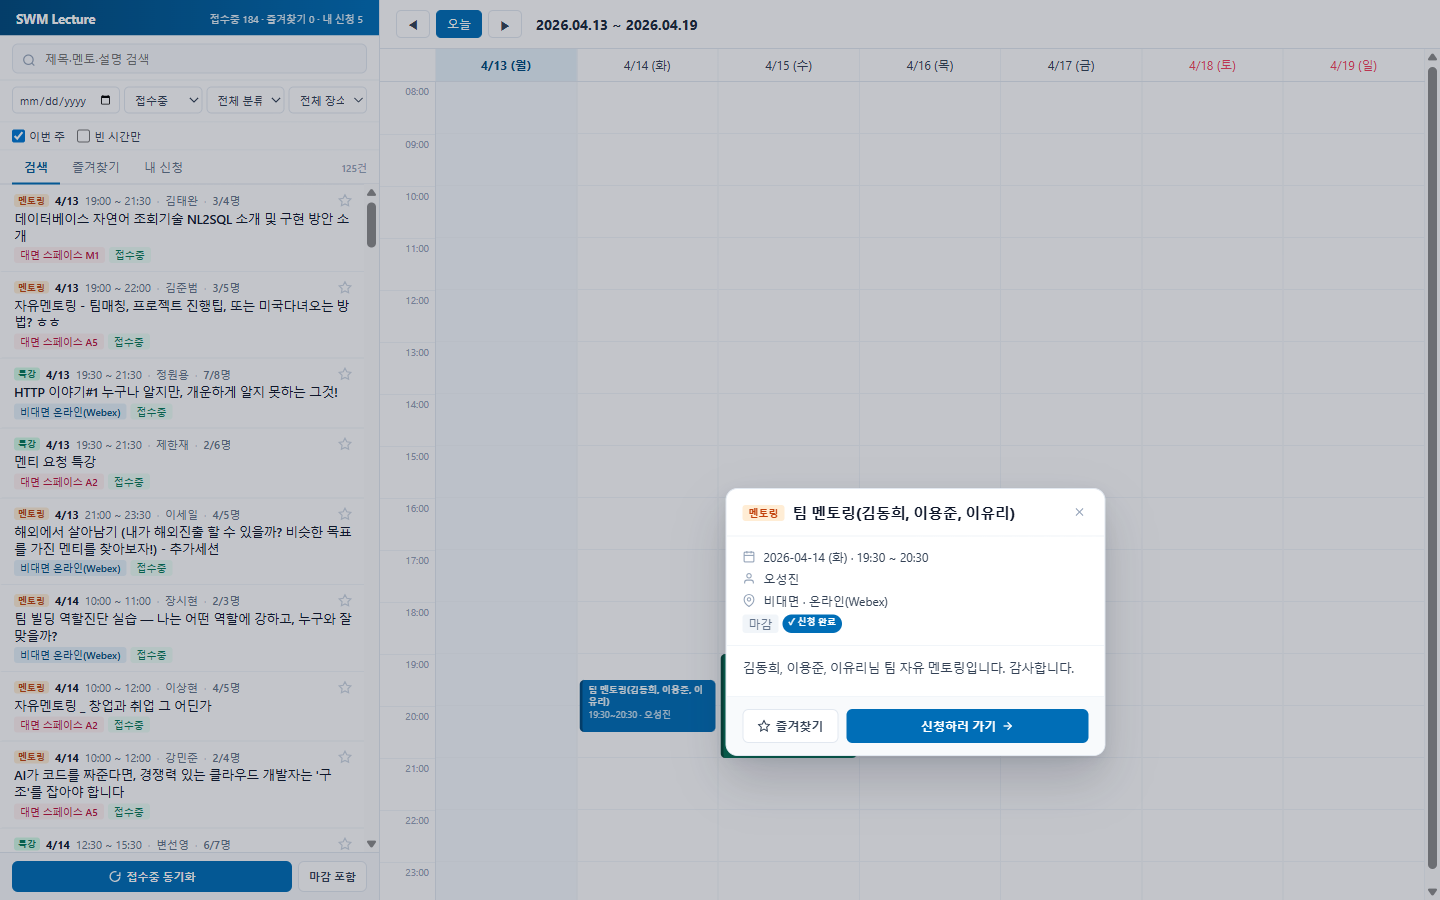
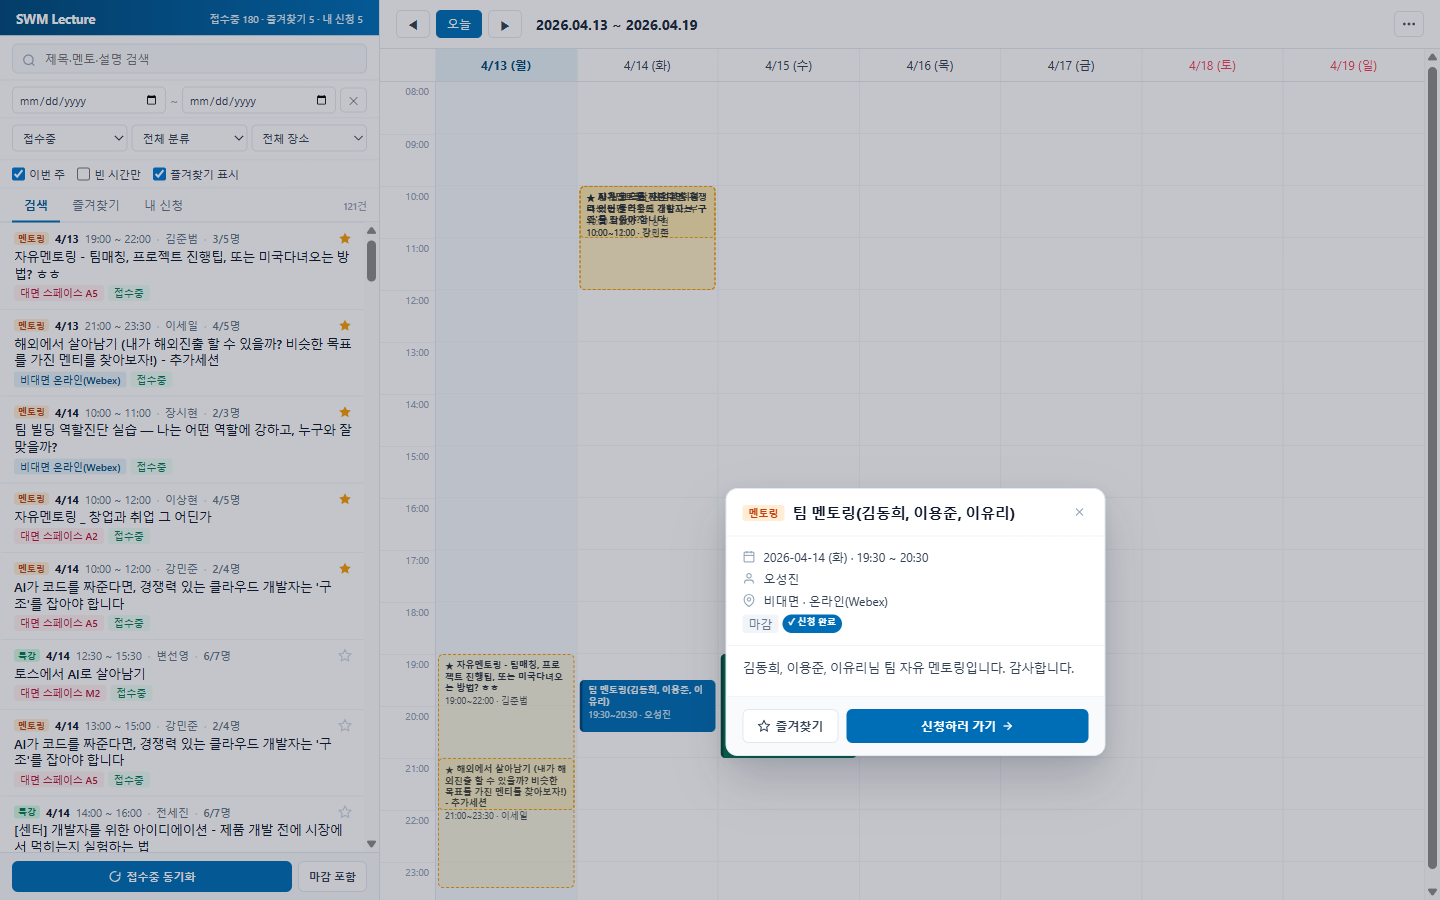
즐겨찾기 헤더 토글 + 상세검색 모드 + 10분 snap + 완전 포함 매칭
UI 재배치:
- 즐겨찾기 표시 체크박스 → 메인 헤더 우측 토글 스위치 (slider 스타일).
  기본 ON, ⋯ 메뉴 옆에 위치
- "상세검색 (시간대 선택)" 버튼을 사이드바 tt-toggles 행에 추가
  - 기본 OFF. 클릭 시 ON ↔ OFF 토글 (라벨/색상 변경)
  - ON 일 때만 그리드 드래그·요일 헤더 클릭으로 슬롯 선택 가능
  - ON 일 때만 slot-bar 노출 + slot 필터 적용
  - OFF 일 때 selectedSlots 는 보존되지만 검색 결과에 영향 없음

슬롯 동작 변경:
- 하루에 여러 바 허용 (shift 키 없이 매번 추가, merge 자동)
- "이 시간대 검색" 버튼 제거 (advancedMode + slots 있으면 자동 적용)
- 슬롯 시간 10분 단위 snap (SLOT_SNAP_MIN=10)
- 매칭 로직 변경: overlap → 완전 포함
  (s.startMin <= r.startMin && s.endMin >= r.endMin)
  강연 시간이 선택 슬롯 안에 전부 들어가야 결과에 표시

검색 within slot:
- 키워드/필터는 slot 필터와 chain 됨 (기존 runSearch 구조 그대로)
- slot 적용 후에도 검색창에 키워드 입력 → slot ∩ keyword

manifest: 1.7.0 → 1.8.0

diff --git a/timetable/timetable.js b/timetable/timetable.js
@@ -17,7 +17,8 @@
   // B-2: 시간대 선택
   // key: 'YYYY-MM-DD', value: [{startMin, endMin}]
   const selectedSlots = new Map();
-  let slotFilterOn = false; // "이 시간대 검색" 활성 플래그
+  let advancedMode = false; // 상세검색 모드 (드래그/슬롯 필터 활성 여부)
+  const SLOT_SNAP_MIN = 10; // 10분 단위 스냅
 
   const el = id => document.getElementById(id);
   const searchInput = el('searchInput');
@@ -56,7 +57,7 @@
     const status = filterStatus.value;
     const category = filterCategory.value;
     const location = filterLocation.value;
-    const slotSearchActive = slotFilterOn && selectedSlots.size > 0;
+    const slotSearchActive = advancedMode && selectedSlots.size > 0;
 
     let lectures = Object.values(allLectures);
 
@@ -139,7 +140,8 @@
     if (!slots || slots.length === 0) return false;
     const r = parseTimeRange(l.lecTime);
     if (!r) return false;
-    return slots.some(s => overlaps(s, r));
+    // 완전 포함 (강연 시간이 선택 슬롯 안에 전부 들어가는 경우만)
+    return slots.some(s => s.startMin <= r.startMin && s.endMin >= r.endMin);
   }
 
   // ─── 카드 렌더 (팝업과 동일 구조) ───
@@ -516,17 +518,20 @@
   let dragState = null; // {colEl, dateStr, startY, currentY, shift}
 
   function yToMin(y) {
-    return Math.max(baseMin, Math.min(baseMin + Math.round(y / HOUR_PX * 60), (END_HOUR + 1) * 60));
+    const raw = baseMin + (y / HOUR_PX) * 60;
+    const snapped = Math.round(raw / SLOT_SNAP_MIN) * SLOT_SNAP_MIN;
+    return Math.max(baseMin, Math.min(snapped, (END_HOUR + 1) * 60));
   }
   function minToY(min) {
     return Math.max(0, (min - baseMin) / 60) * HOUR_PX;
   }
 
-  function addSlot(dateStr, startMin, endMin, shift) {
+  function addSlot(dateStr, startMin, endMin) {
     startMin = Math.max(baseMin, startMin);
     endMin = Math.min((END_HOUR + 1) * 60, endMin);
     if (startMin >= endMin) return;
-    const existing = shift ? (selectedSlots.get(dateStr) || []).slice() : [];
+    // 항상 기존 슬롯에 추가 (하루에 여러 바 허용)
+    const existing = (selectedSlots.get(dateStr) || []).slice();
     existing.push({ startMin, endMin });
     existing.sort((a, b) => a.startMin - b.startMin);
     const merged = [];
@@ -538,7 +543,6 @@
       }
     }
     selectedSlots.set(dateStr, merged);
-    slotFilterOn = true;
   }
 
   function clearDragPreview() {
@@ -582,7 +586,7 @@
   const wdayShort = ['일', '월', '화', '수', '목', '금', '토'];
   function renderSlotBar() {
     const bar = el('slotBar');
-    if (selectedSlots.size === 0) {
+    if (!advancedMode) {
       bar.style.display = 'none';
       return;
     }
@@ -603,8 +607,9 @@
     el('slotChips').innerHTML = chips.join('');
   }
 
-  // 드래그 이벤트
+  // 드래그 이벤트 (상세검색 모드 ON 일 때만)
   gridBody.addEventListener('mousedown', e => {
+    if (!advancedMode) return;
     const col = e.target.closest('.day-column');
     if (!col || e.target !== col) return;
     e.preventDefault();
@@ -615,7 +620,6 @@
       dateStr: col.dataset.date,
       startY: y,
       currentY: y,
-      shift: e.shiftKey,
     };
     document.body.classList.add('dragging');
     renderDragPreview();
@@ -635,7 +639,7 @@
     document.body.classList.remove('dragging');
     clearDragPreview();
     if (Math.abs(endY - startY) >= 4) {
-      addSlot(dragState.dateStr, yToMin(startY), yToMin(endY), dragState.shift);
+      addSlot(dragState.dateStr, yToMin(startY), yToMin(endY));
       renderSlotBar();
       renderSlotBlocks();
       updateDayHeaderSelection();
@@ -644,8 +648,9 @@
     dragState = null;
   });
 
-  // 요일 헤더 클릭 → 그 요일 전체 토글
+  // 요일 헤더 클릭 → 그 요일 전체 토글 (상세검색 모드 ON 일 때만)
   dayHeaders.addEventListener('click', e => {
+    if (!advancedMode) return;
     const cell = e.target.closest('.day-headers > div');
     if (!cell) return;
     const kids = Array.from(dayHeaders.children);
@@ -661,7 +666,6 @@
     } else {
       selectedSlots.set(dateStr, [{ startMin: baseMin, endMin: (END_HOUR + 1) * 60 }]);
     }
-    slotFilterOn = selectedSlots.size > 0;
     renderSlotBar();
     renderSlotBlocks();
     updateDayHeaderSelection();
@@ -678,23 +682,28 @@
     const next = arr.filter(s => !(s.startMin === +start && s.endMin === +end));
     if (next.length === 0) selectedSlots.delete(date);
     else selectedSlots.set(date, next);
-    slotFilterOn = selectedSlots.size > 0;
     renderSlotBar();
     renderSlotBlocks();
     updateDayHeaderSelection();
     runSearch();
   });
 
-  el('slotSearchBtn').addEventListener('click', () => {
-    slotFilterOn = true;
-    runSearch();
-  });
   el('slotClearBtn').addEventListener('click', () => {
     selectedSlots.clear();
-    slotFilterOn = false;
     renderSlotBar();
     renderSlotBlocks();
     updateDayHeaderSelection();
+    runSearch();
+  });
+
+  // 상세검색 토글
+  el('advancedToggle').addEventListener('click', () => {
+    advancedMode = !advancedMode;
+    el('advancedToggle').classList.toggle('on', advancedMode);
+    el('advancedToggle').textContent = advancedMode
+      ? '상세검색 종료'
+      : '상세검색 (시간대 선택)';
+    renderSlotBar();
     runSearch();
   });
 

diff --git a/timetable/timetable.html b/timetable/timetable.html
@@ -45,7 +45,7 @@
   <div class="tt-toggles">
     <label><input type="checkbox" id="thisWeekOnly" checked> 이번 주</label>
     <label><input type="checkbox" id="onlyFreeSlot"> 빈 시간만</label>
-    <label><input type="checkbox" id="showFavsOnGrid"> 즐겨찾기 표시</label>
+    <button id="advancedToggle" class="advanced-btn">상세검색 (시간대 선택)</button>
   </div>
 
   <div class="tabs">
@@ -76,6 +76,11 @@
     </div>
     <div class="right-group">
       <div id="hoverPreviewInfo" class="preview-info"></div>
+      <label class="toggle-switch" title="즐겨찾기 강연을 그리드에 반투명으로 표시">
+        <input type="checkbox" id="showFavsOnGrid" checked>
+        <span class="slider"></span>
+        <span class="toggle-label">즐겨찾기 표시</span>
+      </label>
       <div class="menu-wrap">
         <button id="menuBtn" class="menu-btn" title="메뉴">
           <svg viewBox="0 0 24 24" fill="currentColor"><circle cx="5" cy="12" r="2"/><circle cx="12" cy="12" r="2"/><circle cx="19" cy="12" r="2"/></svg>
@@ -104,11 +109,11 @@
   </header>
 
   <div id="slotBar" class="slot-bar" style="display:none">
-    <span class="slot-bar-label">시간대 선택:</span>
+    <span class="slot-bar-label">시간대 검색:</span>
     <div id="slotChips" class="slot-chips"></div>
     <div class="slot-bar-actions">
-      <button id="slotSearchBtn" class="btn btn-primary">이 시간대 검색</button>
-      <button id="slotClearBtn" class="btn btn-secondary">클리어</button>
+      <span class="slot-hint">그리드에서 드래그 · 요일 헤더 클릭으로 선택</span>
+      <button id="slotClearBtn" class="btn btn-secondary">전체 해제</button>
     </div>
   </div>
 

diff --git a/timetable/timetable.css b/timetable/timetable.css
@@ -172,6 +172,67 @@ body.dragging .lec-block { pointer-events: none; }
   gap: 4px;
   cursor: pointer;
 }
+.advanced-btn {
+  margin-left: auto;
+  padding: 3px 8px;
+  font-size: 11px;
+  font-weight: 500;
+  background: white;
+  border: 1px solid var(--slate-200);
+  border-radius: 5px;
+  color: var(--slate-700);
+  cursor: pointer;
+  font-family: inherit;
+}
+.advanced-btn:hover { border-color: var(--brand-500); color: var(--brand-600); }
+.advanced-btn.on {
+  background: var(--brand-500);
+  border-color: var(--brand-500);
+  color: white;
+}
+
+/* ─── 헤더 토글 스위치 ─── */
+.toggle-switch {
+  display: inline-flex;
+  align-items: center;
+  gap: 6px;
+  cursor: pointer;
+  font-size: 11px;
+  font-weight: 500;
+  color: var(--slate-700);
+  user-select: none;
+}
+.toggle-switch input { display: none; }
+.toggle-switch .slider {
+  width: 30px;
+  height: 16px;
+  background: var(--slate-300);
+  border-radius: 999px;
+  position: relative;
+  transition: background 0.15s;
+  flex-shrink: 0;
+}
+.toggle-switch .slider::after {
+  content: '';
+  position: absolute;
+  top: 2px;
+  left: 2px;
+  width: 12px;
+  height: 12px;
+  background: white;
+  border-radius: 50%;
+  transition: left 0.15s;
+}
+.toggle-switch input:checked + .slider { background: var(--brand-500); }
+.toggle-switch input:checked + .slider::after { left: 16px; }
+.toggle-switch .toggle-label { white-space: nowrap; }
+
+.slot-hint {
+  font-size: 10px;
+  color: var(--slate-500);
+  font-style: italic;
+  margin-right: 4px;
+}
 
 .tabs {
   display: flex;
